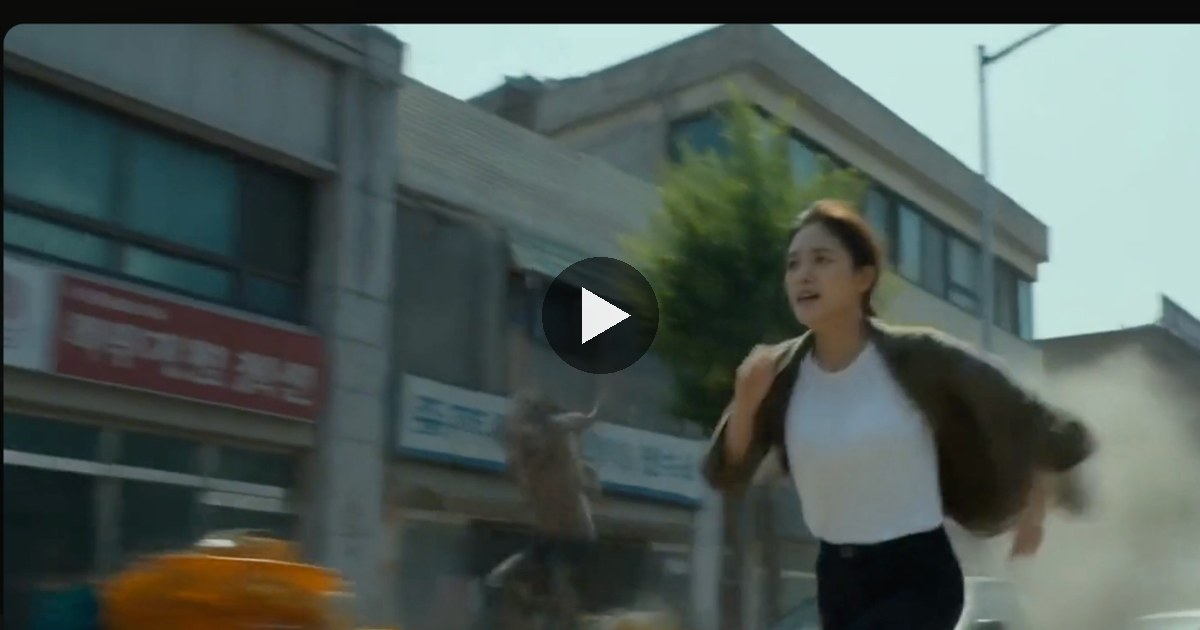
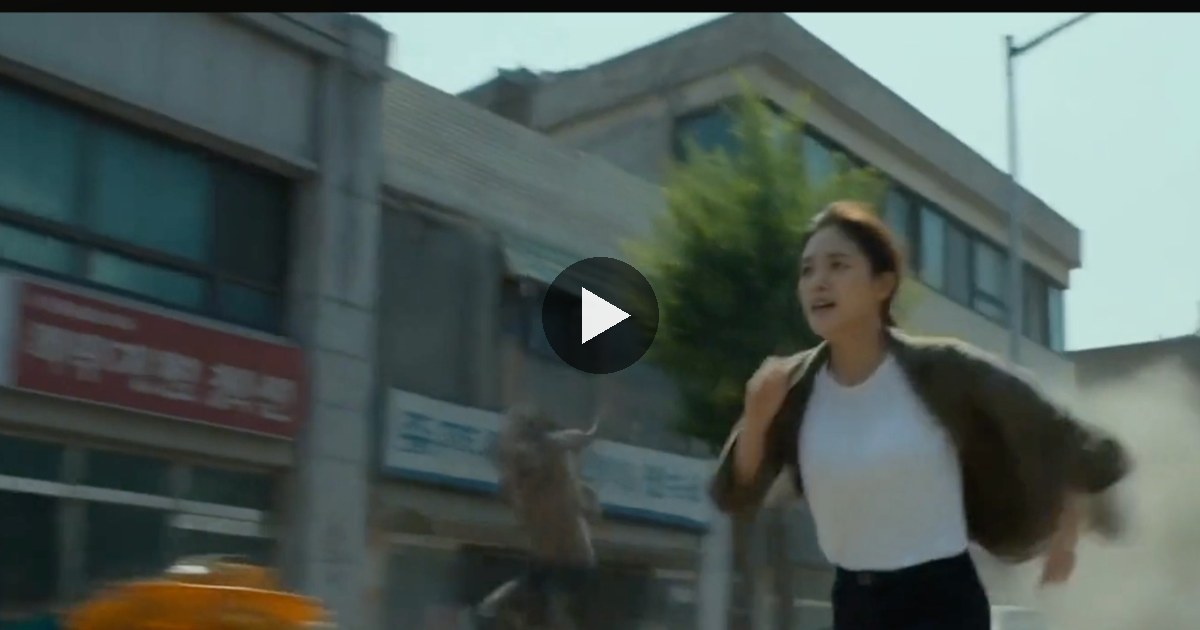
공유 썸네일 크롭 수정

diff --git a/ad/flower-sunscreen-v2/index.html b/ad/flower-sunscreen-v2/index.html
@@ -12,7 +12,7 @@
 <meta property="og:site_name" content="Isaac Studio">
 <meta property="og:title" content="아이작이 하루 동안 만든 광고영상 — 플라워 썬크림 v2">
 <meta property="og:description" content="30초 AI 광고, 기획부터 완성까지 하루. AI shoots it. People win it.">
-<meta property="og:image" content="https://isaacstudio.cc/ad/flower-sunscreen-v2/og.jpg">
+<meta property="og:image" content="https://isaacstudio.cc/ad/flower-sunscreen-v2/og.jpg?v=2">
 <meta property="og:image:width" content="1200">
 <meta property="og:image:height" content="630">
 <meta property="og:image:alt" content="플라워 썬크림 v2 광고 장면 — 좀비 떼를 피해 달리는 여성">
@@ -20,7 +20,7 @@
 <meta name="twitter:site" content="@isaac7985">
 <meta name="twitter:title" content="아이작이 하루 동안 만든 광고영상 — 플라워 썬크림 v2">
 <meta name="twitter:description" content="30초 AI 광고, 기획부터 완성까지 하루. AI shoots it. People win it.">
-<meta name="twitter:image" content="https://isaacstudio.cc/ad/flower-sunscreen-v2/og.jpg">
+<meta name="twitter:image" content="https://isaacstudio.cc/ad/flower-sunscreen-v2/og.jpg?v=2">
 <style>
   *{box-sizing:border-box}
   body{margin:0;min-height:100vh;background:#0d0d0d;color:#FDF9F1;font-family:"IBM Plex Sans KR",system-ui,-apple-system,sans-serif;display:flex;flex-direction:column;align-items:center}
@@ -37,7 +37,7 @@
 <body>
 <header><a href="/">ISAAC STUDIO</a><a href="https://x.com/isaac7985" rel="noopener">@isaac7985</a></header>
 <main>
-  <video src="/reels/f08.mp4" poster="og.jpg" controls playsinline preload="metadata"></video>
+  <video src="/reels/f08.mp4" poster="og.jpg?v=2" controls playsinline preload="metadata"></video>
   <h1>아이작이 하루 동안 만든 광고영상 — 플라워 썬크림 v2</h1>
   <p>뷰티 · 좀비 썬크림 · 30초 · 16:9<br>기획과 연출은 사람이, 촬영은 AI가. 하루 만에 완성한 30초 CF입니다.</p>
   <a class="cta" href="/#work">포트폴리오 더 보기</a><a class="cta ghost" href="/#contact">광고 제작 문의</a>
